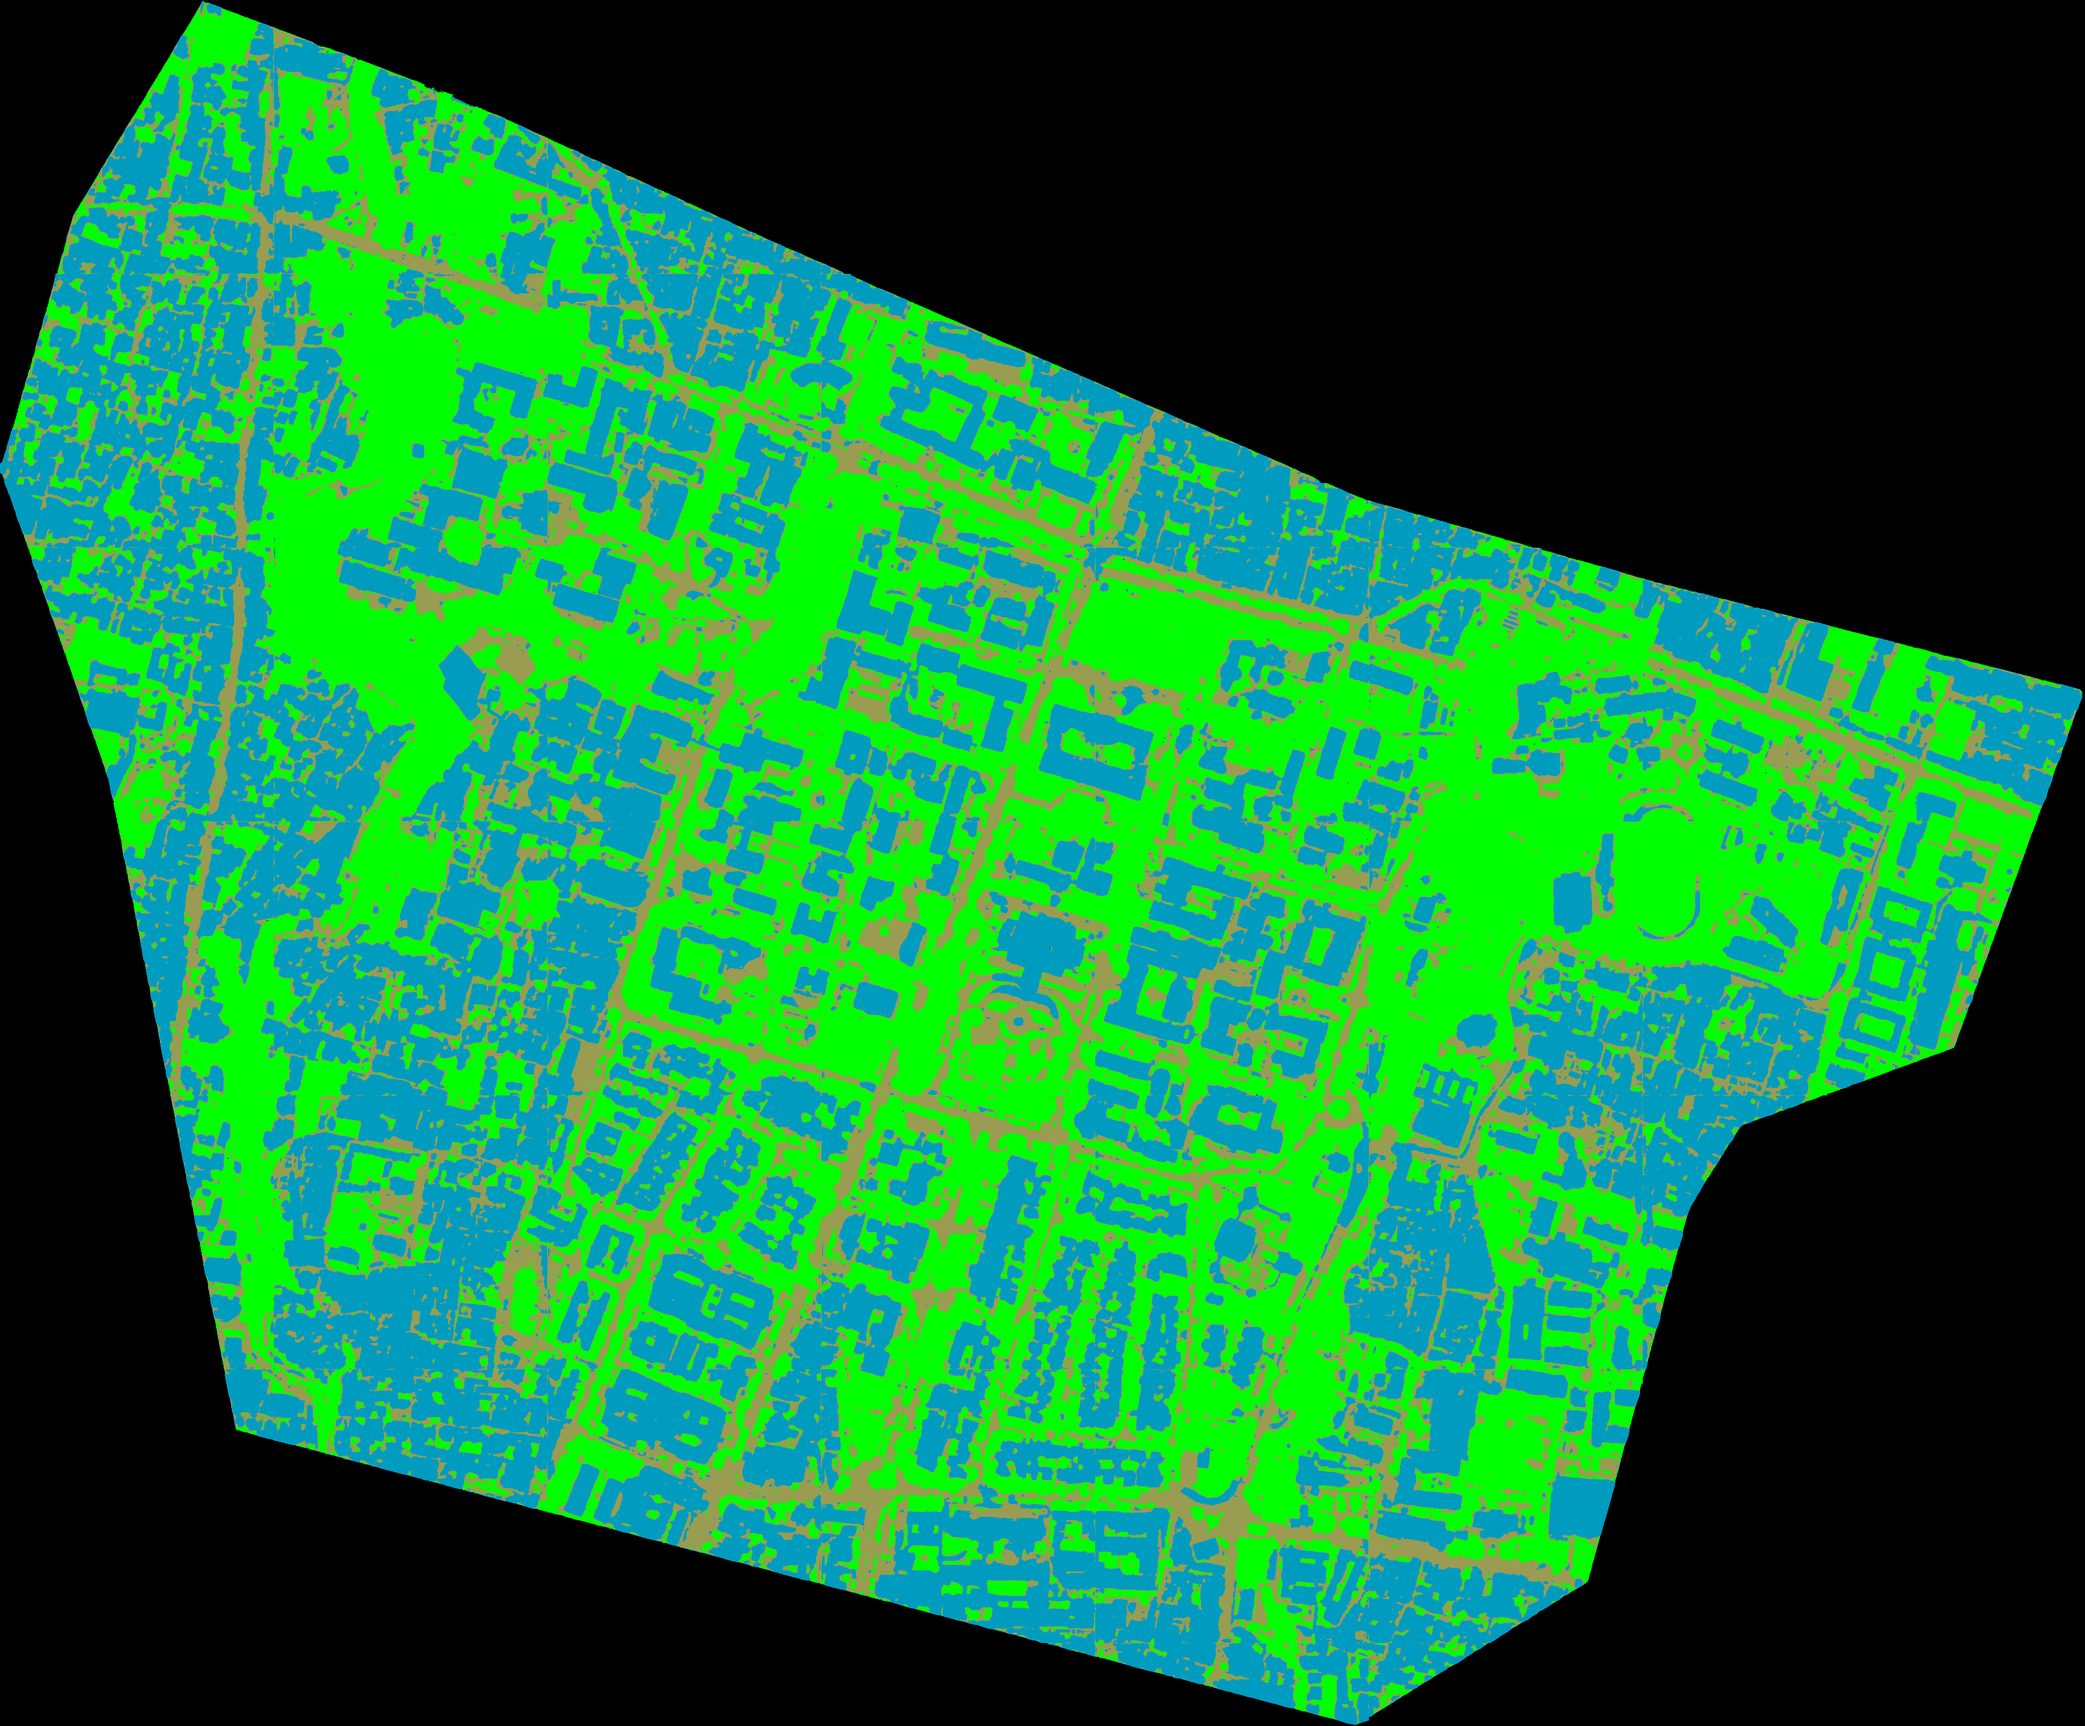
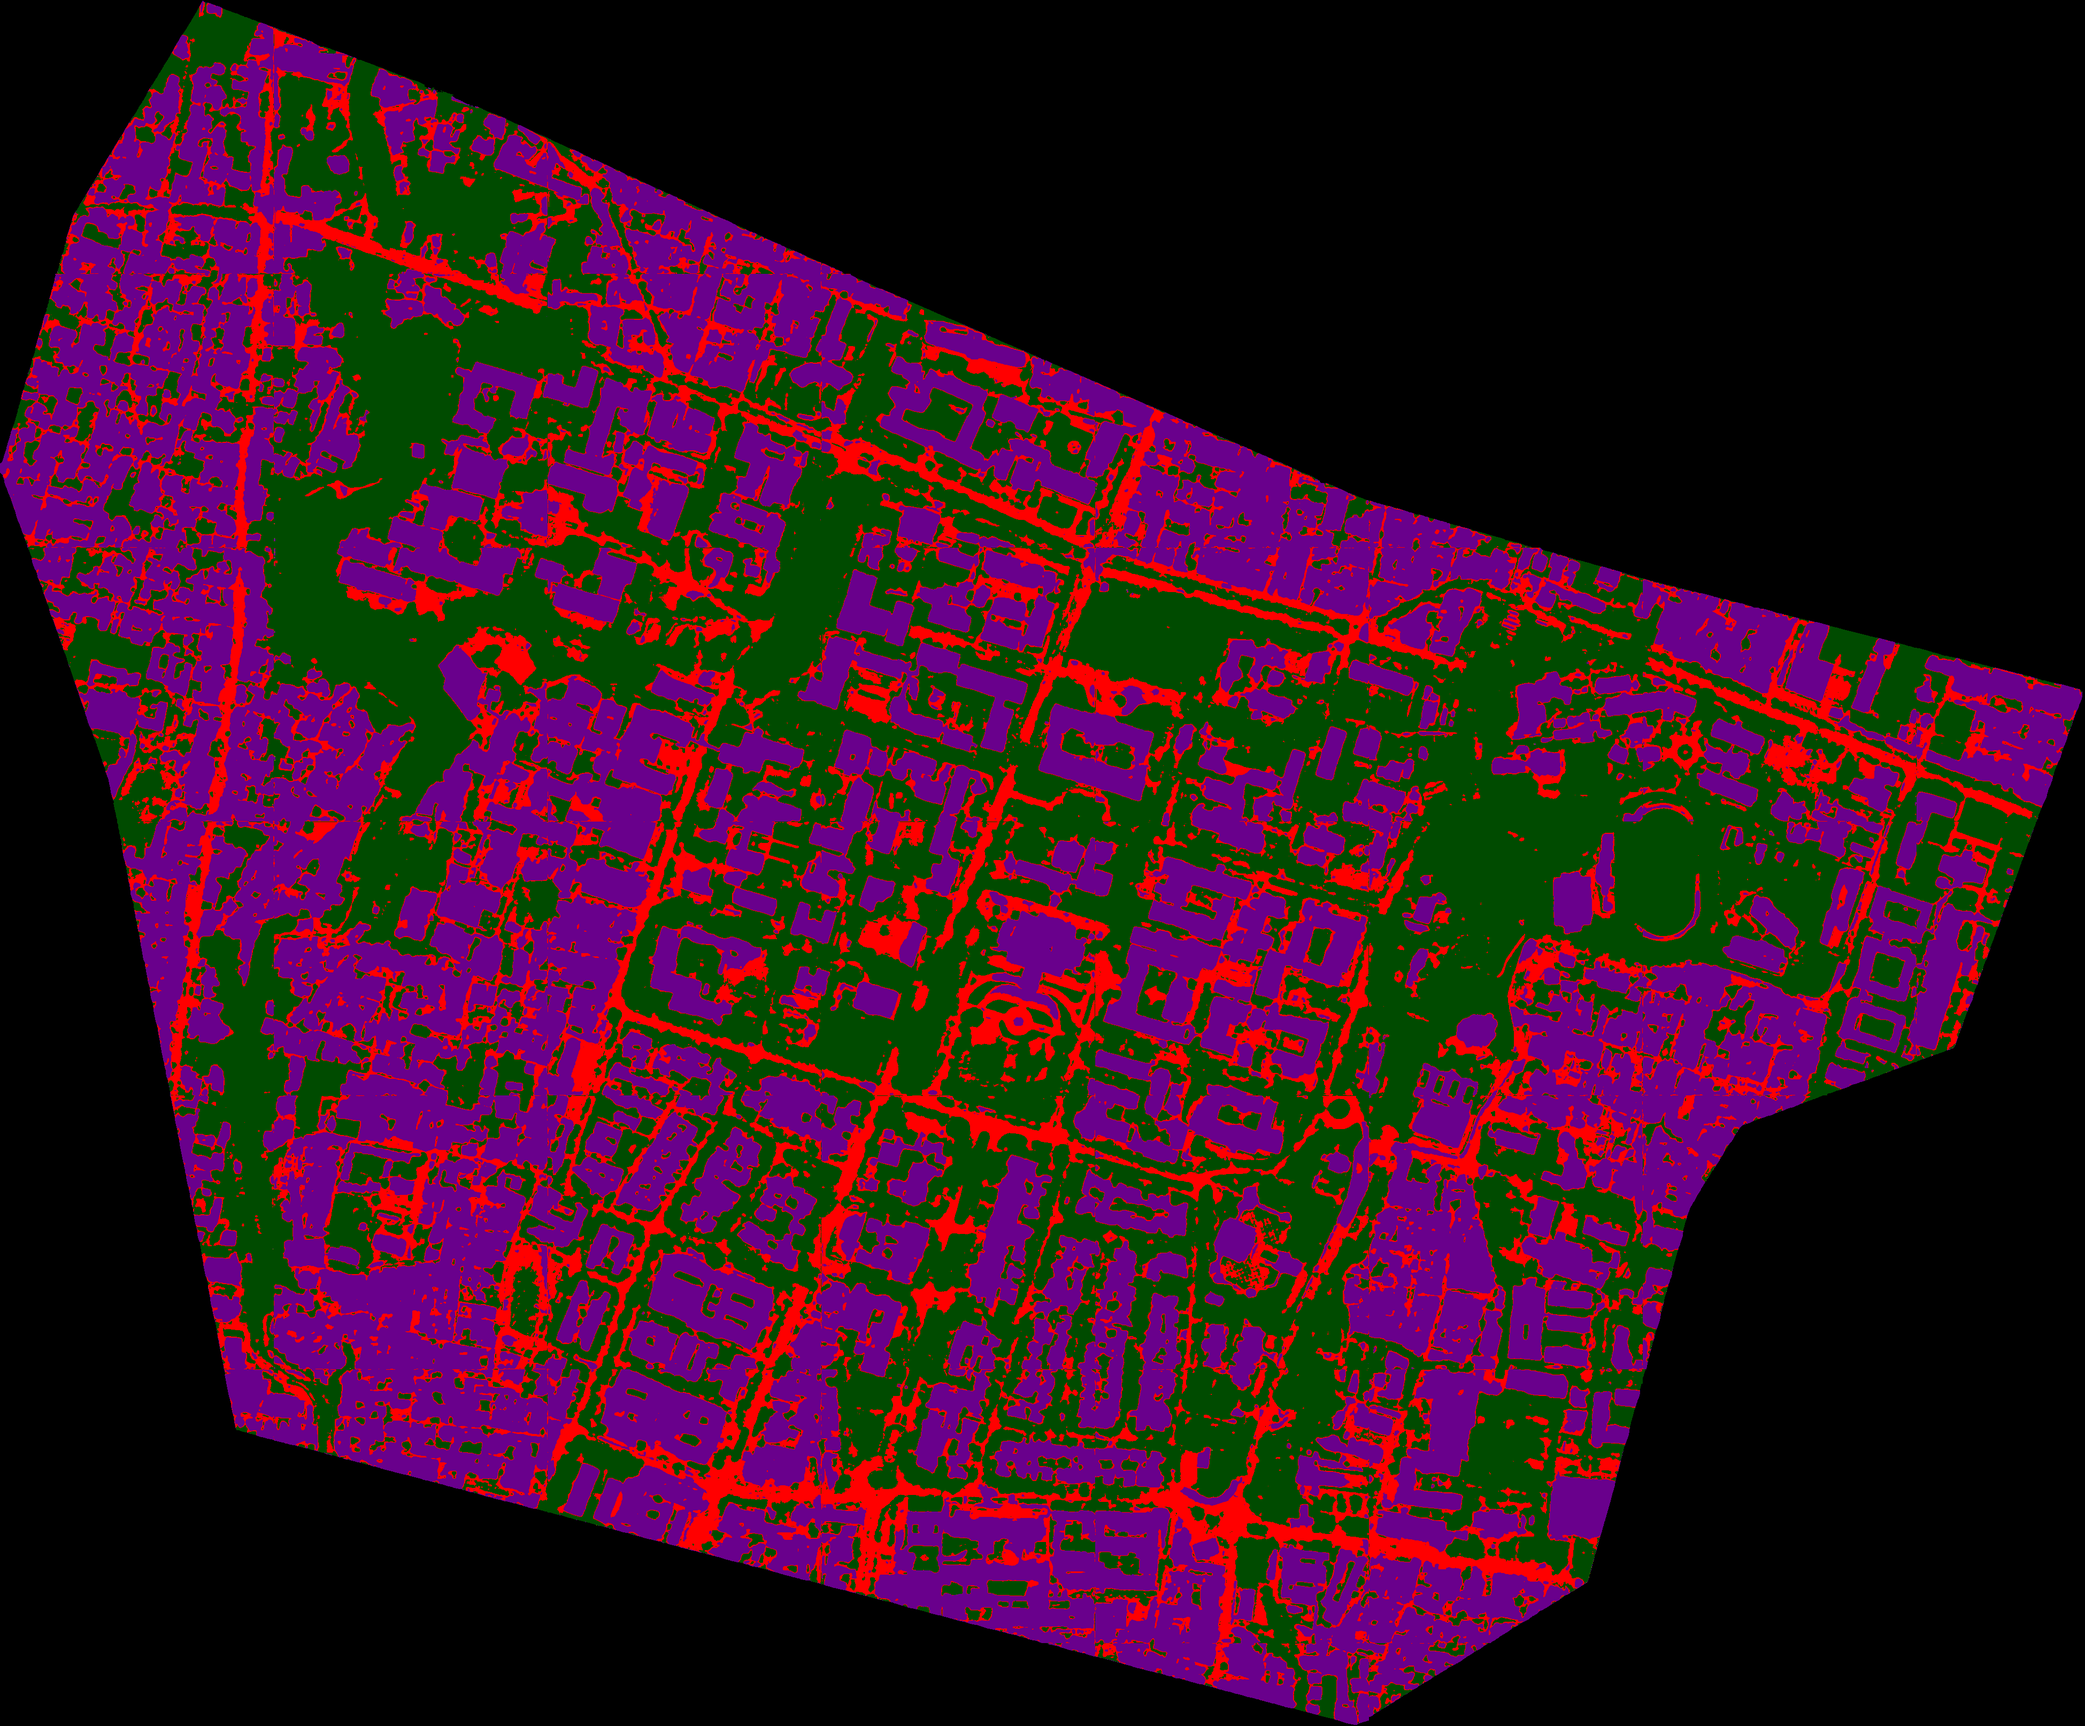
fix colour problem

diff --git a/utils/hex2rgb.py b/utils/hex2rgb.py
@@ -49,25 +49,25 @@ class Label:
         mask = self.mask
         b, g, r = cv2.split(mask)
 
-        r[r==1] = 105
-        r[r==2] = 255
+        r[r==6] = 105
+        r[r==4] = 255
+        r[r==1] = 0
+        r[r==2] = 82
         r[r==3] = 0
-        r[r==4] = 82
-        r[r==5] = 0
-        r[r==6] = 191
+        r[r==5] = 191
 
-        g[g==1] = 0
-        g[g==2] = 0
-        g[g==3] = 255
-        g[g==4] = 156
-        g[g==5] = 75
-        g[g==6] = 156
+        g[g==6] = 0
+        g[g==4] = 0
+        g[g==1] = 255
+        g[g==2] = 156
+        g[g==3] = 75
+        g[g==5] = 156
 
-        b[b==1] = 140
-        b[b==2] = 0
+        b[b==6] = 140
+        b[b==4] = 0
+        b[b==1] = 0
+        b[b==2] = 154
         b[b==3] = 0
-        b[b==4] = 154
         b[b==5] = 0
-        b[b==6] = 0
 
         return cv2.merge([b, g, r])

diff --git a/main.py b/main.py
@@ -11,7 +11,7 @@ import numpy as np
 import cv2
 
 scaler = MinMaxScaler()
-model = load_model('model/e250_v4_35.h5',)
+model = load_model('model/e250_v4_15.h5',)
 
 aoi = BacaData('data/ortho_ugm_65.png').patchData(512, 1)
 hil = BacaData('data/hill_ugm_65.png').patchData(512, 1)
@@ -56,4 +56,4 @@ out_img = out_img.astype(np.uint8)
 # plt.imshow(reconstructed_image)
 # plt.show()
 # print(np.unique(predicted_img))
-plt.imsave('out/ugm_35.png', out_img)
+cv2.imwrite('out/ugm_15.png', out_img)
